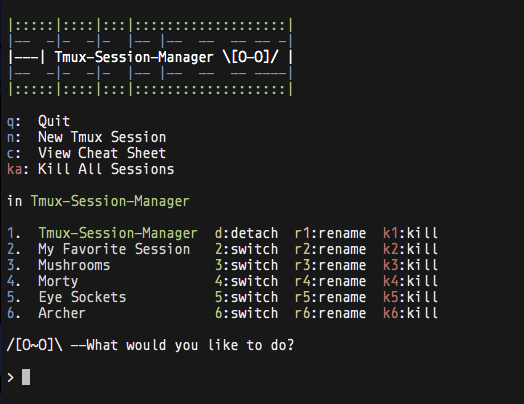
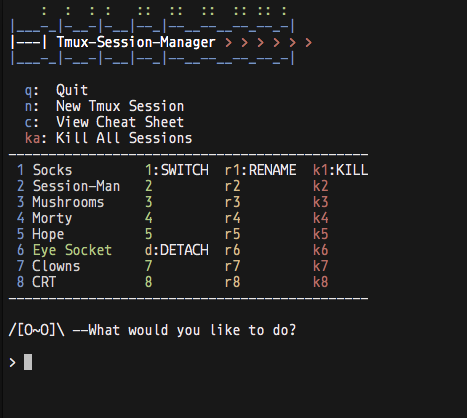
2.1 upgrades to styles and fix for duplicate named sessions.

Changed region(s): [[0.0, 0.0, 0.8394, 0.802], [0.1499, 0.8317, 0.5696, 0.8911], [0.0, 0.8317, 0.1199, 0.9505]]

diff --git a/tmux_session_manager.py b/tmux_session_manager.py
@@ -66,12 +66,11 @@ def getHeader():
     ENDC = '\033[0m'
     BOLD = '\033[1m'
   return (
-    '\n' +
-    col.OKGREEN + '|:::::|::::|:::|:::::::::::::::::::|' + col.ENDC + '\n' +
-    col.OKBLUE  + '|--  -|-  -|-  |-- |--  --  -- -- -|' + col.ENDC + '\n' + 
-    col.BOLD    + '|---| Tmux-Session-Manager \[O-O]/ |' + col.ENDC + '\n' + 
-    col.OKBLUE  + '|--  -|-  -|-  |-- |--  --  -- ----|' + col.ENDC + '\n' + 
-    col.OKGREEN + '|:::::|::::|:::|:::::::::::::::::::|' + col.ENDC + '\n'
+    col.OKGREEN + '    :  :  : :   ::  ::  ::  :: :: : ' + col.ENDC + '\n' +
+    col.OKBLUE  + '|___-_|-__-|-__|--_|--__--__--_--_-|' + col.ENDC + '\n' + 
+    col.BOLD    + '|---| Tmux-Session-Manager' + color_text("red", " > > > > > >") + col.ENDC + '\n' + 
+    col.OKBLUE  + '|___-_|-__-|-__|--_|--__--__--_--_-|' + col.ENDC + '\n' #+ 
+    # col.OKGREEN + ' ::::: :::: ::: ::::::::::::::::::: ' + col.ENDC + '\n'
   )
 
 def prError(err):
@@ -148,7 +147,16 @@ def getName(session):
 def getLenOfSessionName(session):
   return len(getName(session))
 
+def getLineBreak(snl, maxsnl):
+  lineBreak = "-----------------------------------"
+  for ind in range(min(maxsnl, snl) - 1):
+    lineBreak += "-"
+  return lineBreak
+
 def truncateSessionName(sn, maxLength):
+  return (sn[:maxLength-2] + '>>') if len(sn) > maxLength else sn
+
+def truncateSessionNameWithDots(sn, maxLength):
   return (sn[:maxLength-2] + '..') if len(sn) > maxLength else sn
 
 def returnSessionNumber(st):
@@ -157,14 +165,20 @@ def returnSessionNumber(st):
 def stlowrmsp(inp): #str lower & remove spaces
   return str(inp).replace("  ","").lower()
 
+def attachText(col, n, padding):
+  return padding + color_text("green", str(n)) + (":ATTACH" if n == 1 else "")
+
+def switchText(col, n, padding, showText):
+  return padding + color_text("green", str(n)) + (":SWITCH" if (n == 1) or (showText and n == 2) else "")
+
+def detachText(col, n, padding):
+  return padding + col.WARNING + "d" + col.ENDC + ":DETACH"
+
 def killText(col, n):
-  return col.FAIL + "k" + str(n) + col.ENDC + ":kill"
+  return col.FAIL + "k" + str(n) + col.ENDC + (":KILL" if n == 1 else "")
 
 def renameText(col, n):
-  return col.WARNING + "r" + str(n) + col.ENDC + ":rename"
-
-def detachText(col, n):
-  return col.WARNING + "d" + col.ENDC + ":detach"
+  return col.WARNING + "r" + str(n) + col.ENDC + (":RENAME" if n == 1 else "")
 # ||---------------------------||
 
 def generateAllSessions(sessions, scripts):
@@ -212,14 +226,26 @@ def killSession(sessions, sessNumb):
   else:
     main("Session number not found")
 
-def createNewSession():
-  # - Get Session Name 
+def createNewSession(sessions):
+  nameDict = {};
+  for sess in sessions:
+    nameDict[getName(sess)] = 1
+  # - Get Session Name
   sessionName = ""
+  duplicateName = False
   while (not validSessionName(sessionName.strip())):
     prHeader()
     if sessionName != "":
       prError("Names cannot contain colons or periods")
+    elif duplicateName:
+      prError("Duplicate Name: " + duplicateName + " already exists")
+      duplicateName = False
+
     sessionName = raw_input("/[O~O]\ --Session Name: ")
+
+    if sessionName.strip() in nameDict:
+      duplicateName = sessionName.strip()
+      sessionName = ""
   # - Get Session Directory
   directoryPath = ""
   while (directoryPath == "" or not os.path.isdir(directoryPath)):
@@ -237,22 +263,38 @@ def createNewSession():
     readline.set_startup_hook(lambda: readline.insert_text(os.path.expanduser('~/'))) 
     readline.set_completer(completer.pathCompleter)
     
-    directoryPath = raw_input("\n" + "[O~O]/ --Directory: ")
+    directoryPath = raw_input("\n" + color_text("green", "- Directory: "))
   # - Reset Readline and Create New Session 
   readline.set_startup_hook(lambda: readline.insert_text(''))
   subprocess.call(["tmux", "new", "-d", "-s", sessionName.strip(), "-c", directoryPath])
 
 def renameSession(sessions, sessNumb):
   if( sessions[sessNumb-1] > -1 ):
+    nameDict = {};
+    for sess in sessions:
+      nameDict[getName(sess)] = 1
+
     sessionName = getName(sessions[sessNumb-1])
+    readline.set_startup_hook(lambda: readline.insert_text(sessionName))
     # - Get Session Name 
     newSessionName = ""
+    duplicateName = False
     while (not validSessionName(newSessionName.strip())):
       prHeader()
       if newSessionName != "":
         prError("Names cannot contain colons or periods") 
+      elif duplicateName:
+        prError("Duplicate Name: " + duplicateName + " already exists")
+        duplicateName = False
+
       newSessionName = raw_input("\[O~O]/ --Rename " + color_text("blue", sessionName) + " to: \n\n> ")
+
+      if newSessionName != sessionName and newSessionName.strip() in nameDict:
+        duplicateName = newSessionName.strip()
+        newSessionName = ""
+
     subprocess.call(["tmux", "rename-session", "-t", sessionName, newSessionName])
+    readline.set_startup_hook(lambda: readline.insert_text(''))
   else:
     main("Session number not found")
 
@@ -321,50 +363,59 @@ def prNoneActive(col, scripts):
     print col.OKBLUE + str(scripts.index(script)+1) + col.ENDC + ': ' + script.split('.')[0] + " (" + col.OKBLUE + str(scripts.index(script)+1) + col.ENDC + ":start" +  ")"
 
 def prNoneAttached(col, sessions, sessionNameLength, maxSessionNameLength):
-  printText = "";
-
-  for ind, s in enumerate(sessions):
-    sessName = truncateSessionName(getName(s), maxSessionNameLength)
-    snl = getLenOfSessionName(s)
-    spaces = (" " * (sessionNameLength - snl))
-    if is_attached(s) == "detached":
-      printText += color_text('blue', str(ind+1)) + ':' + sessName + "|" + color_text('green', str(ind+1)) + ":attach" + "|" + renameText(col, ind+1) + "|" + killText(col, ind+1) + "\n"
-    elif is_attached(s) == "script":
-      printText += color_text('blue', str(ind+1)) + ':' + sessName + "|" + color_text('blue', str(ind+1)) + ":start" +  "\n"
-  printAsColumn(printText, "|")
-
-def prSessionAttached(col, sessions, sessionNameLength, maxSessionNameLength, sessionName):
-  print "in " + col.OKGREEN + sessionName + col.ENDC
-  print ''
+  lineBreak = getLineBreak(sessionNameLength, maxSessionNameLength)
+  print lineBreak
   printText = ""
 
   for ind, s in enumerate(sessions):
     sessName = truncateSessionName(getName(s), maxSessionNameLength)
     snl = getLenOfSessionName(s)
-    spaces = (" " * (sessionNameLength - snl))
+    space = " " if ind + 1 < 10 else ""
     if is_attached(s) == "detached":
-      printText += color_text("blue", str(ind+1)) + '.' + "|" + color_text("white", sessName) + "|" + color_text('green', str(ind+1)) + ":switch" + "|" + renameText(col, ind+1) + "|" + killText(col, ind+1) + "\n"
-    elif is_attached(s) == "attached":
-      printText += color_text("blue", str(ind+1)) + '.' + "|" + color_text("green", sessName) + "|" + detachText(col, ind+1) + "|" + renameText(col, ind+1) + "|" + killText(col, ind+1) + "\n"
+      printText += space + color_text("blue", str(ind+1)) + ' ' + color_text("white", sessName) + "." + attachText(col, ind+1, space) + "." + renameText(col, ind+1) + "." + killText(col, ind+1) + "\n" 
     elif is_attached(s) == "script":
-      printText += ccolor_text("blue", str(ind+1)) + '.' + "|" + sessName + "\n"
-  printAsColumn(printText, "|")
+      printText += space + color_text('blue', str(ind+1)) + ' ' + sessName + "." + color_text('blue', str(ind+1)) + ":start" +  "\n"
+  printAsColumn(printText, ".")
+  print lineBreak + "\n"
+
+def prSessionAttached(col, sessions, sessionNameLength, maxSessionNameLength, sessionName):
+  # print "in " + col.OKGREEN + sessionName + col.ENDC
+  sessOneIsAttached = False 
+  lineBreak = getLineBreak(sessionNameLength, maxSessionNameLength)
+  print lineBreak
+  printText = ""
+
+  for ind, s in enumerate(sessions):
+    sessName = truncateSessionName(getName(s), maxSessionNameLength)
+    snl = getLenOfSessionName(s)
+    space = " " if ind + 1 < 10 else ""
+    if is_attached(s) == "detached":
+      printText += space + color_text("blue", str(ind+1)) + ' ' + color_text("white", sessName) + "." + switchText(col, ind+1, space, sessOneIsAttached) + "." + renameText(col, ind+1) + "." + killText(col, ind+1) + "\n" 
+    elif is_attached(s) == "attached":
+      if (ind + 1 == 1):
+        sessOneIsAttached = True
+      printText += space + color_text("blue", str(ind+1)) + ' ' + color_text("green", sessName) + "." + detachText(col, ind+1, space) + "." + renameText(col, ind+1) + "." + killText(col, ind+1) + "\n" 
+    elif is_attached(s) == "script":
+      printText += spae + color_text("blue", str(ind+1)) + ' ' + sessName + endLine 
+  printAsColumn(printText, ".")
+  print lineBreak + "\n"
+  # print "\n"
 
 def printInSessionOptions(col):
-  print col.OKBLUE + 'q' + col.ENDC + ':' + '  Quit'
-  print col.OKBLUE + 'n' + col.ENDC + ':' + '  New Tmux Session'
-  print col.OKBLUE + 'c' + col.ENDC + ':' + '  View Cheat Sheet'
-  print col.FAIL + 'ka' + col.ENDC + ':' + ' Kill All Sessions'
+  print "  " + col.OKBLUE + 'q' + col.ENDC + ':' + '  Quit'
+  print "  " + col.OKBLUE + 'n' + col.ENDC + ':' + '  New Tmux Session'
+  print "  " + col.OKBLUE + 'c' + col.ENDC + ':' + '  View Cheat Sheet'
+  print "  " + col.FAIL + 'ka' + col.ENDC + ':' + ' Kill All Sessions'
   # print col.OKBLUE + 's' + col.ENDC + ':' + ' Switch Pane'
   # print col.OKBLUE + 'vs' + col.ENDC + ':' + ' Vertical Split' + " | " + col.OKBLUE + 'hs' + col.ENDC + ':' + ' Horizontal Split'
 
 def printDefaultOptions(col, sessions):
-  print col.OKBLUE + 'q' + col.ENDC + ':' + '  Quit'
-  print col.OKBLUE + 'n' + col.ENDC + ':' + '  New Tmux Session'
-  print col.OKBLUE + 'c' + col.ENDC + ':' + '  View Cheat Sheet'
-  print col.OKBLUE + 'vs' + col.ENDC + ':' + ' Vertical Split' + " | " + col.OKBLUE + 'hs' + col.ENDC + ':' + ' Horizontal Split'
+  print "  " + col.OKBLUE + 'q' + col.ENDC + ':' + '  Quit'
+  print "  " + col.OKBLUE + 'n' + col.ENDC + ':' + '  New Tmux Session'
+  print "  " + col.OKBLUE + 'c' + col.ENDC + ':' + '  View Cheat Sheet'
+  print "  " + col.OKBLUE + 'vs' + col.ENDC + ':' + ' Vertical Split' + " | " + col.OKBLUE + 'hs' + col.ENDC + ':' + ' Horizontal Split'
   if a_session_is_alive(sessions):
-    print col.FAIL + 'ka' + col.ENDC + ':' + ' Kill All Sessions'
+    print "  " + col.FAIL + 'ka' + col.ENDC + ':' + ' Kill All Sessions'
 
 def printSessionInformation(col, sessions):
   if a_session_is_alive(sessions): 
@@ -377,7 +428,7 @@ def prScripts(scripts, sessions, userInSession, col):
     printInSessionOptions(col)
   else:
     printDefaultOptions(col, sessions)
-  print ''
+  # print ''
   printSessionInformation(col, sessions)
   # Continue printing rest of program
   attachedSession = False
@@ -403,7 +454,6 @@ def prScripts(scripts, sessions, userInSession, col):
   else:
     prNoneActive(col, scripts)
   # Print padding
-  print ''
 
 def handleInput(scriptDir, sessions, scripts):
   session = raw_input("/[o_o]\ --What would you like to do?\n\n> ")
@@ -446,7 +496,7 @@ def handleActiveSession(activeSessName, sessions):
     subprocess.call(['less', sys.path[0] + "/resources/cheat_sheet.txt"])
     main()
   elif stlowrmsp(session) == "n" or stlowrmsp(session) == "new":
-    createNewSession()
+    createNewSession(sessions)
     main()
   # elif stlowrmsp(session) == "s":
   #   switch_pane()
@@ -467,7 +517,6 @@ def handleActiveSession(activeSessName, sessions):
     switchSessionTo(getName(sessions[int(session)-1]))
   else:
     main("Input option not recognized")
-    # handleActiveSession(activeSessName, sessions)
 
 def warnUserThatTmuxIsNotInstaled():
   subprocess.call(['clear'])
